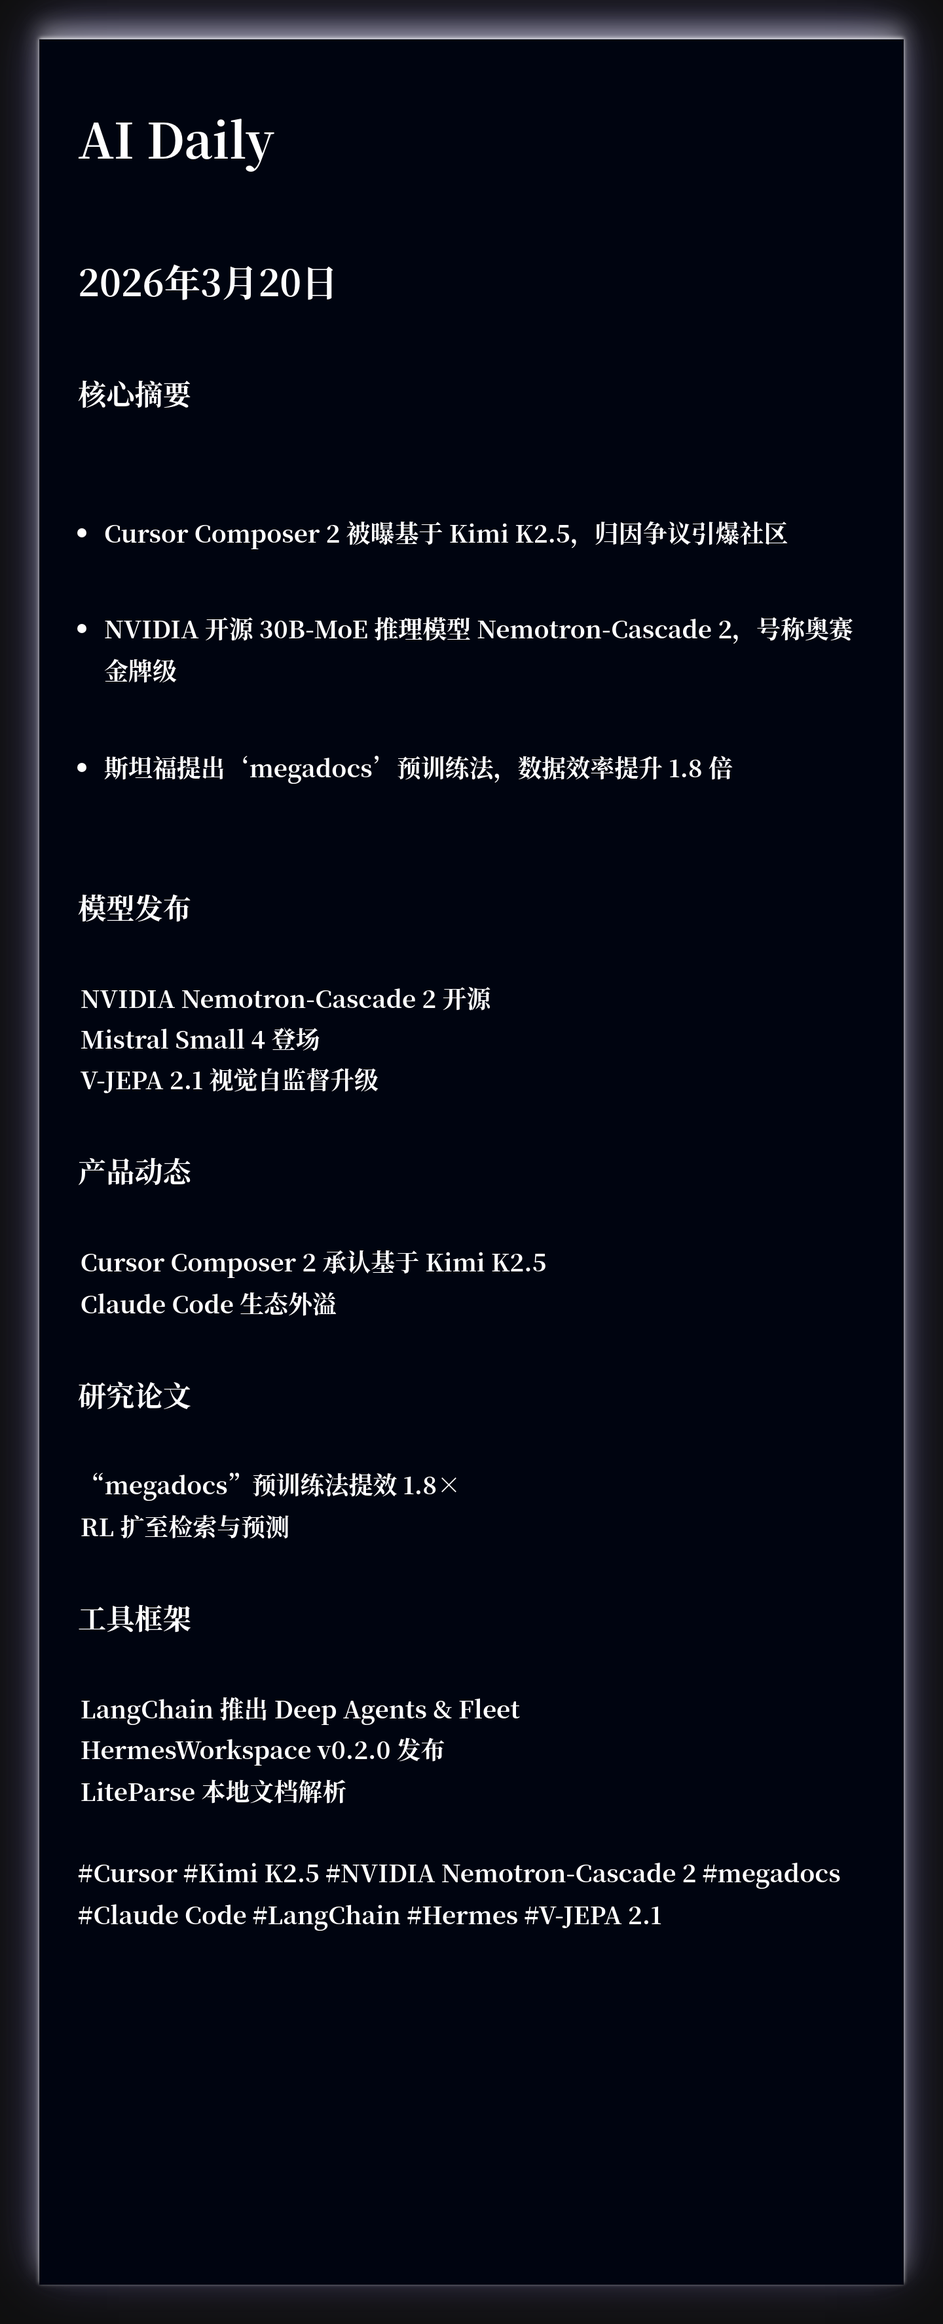
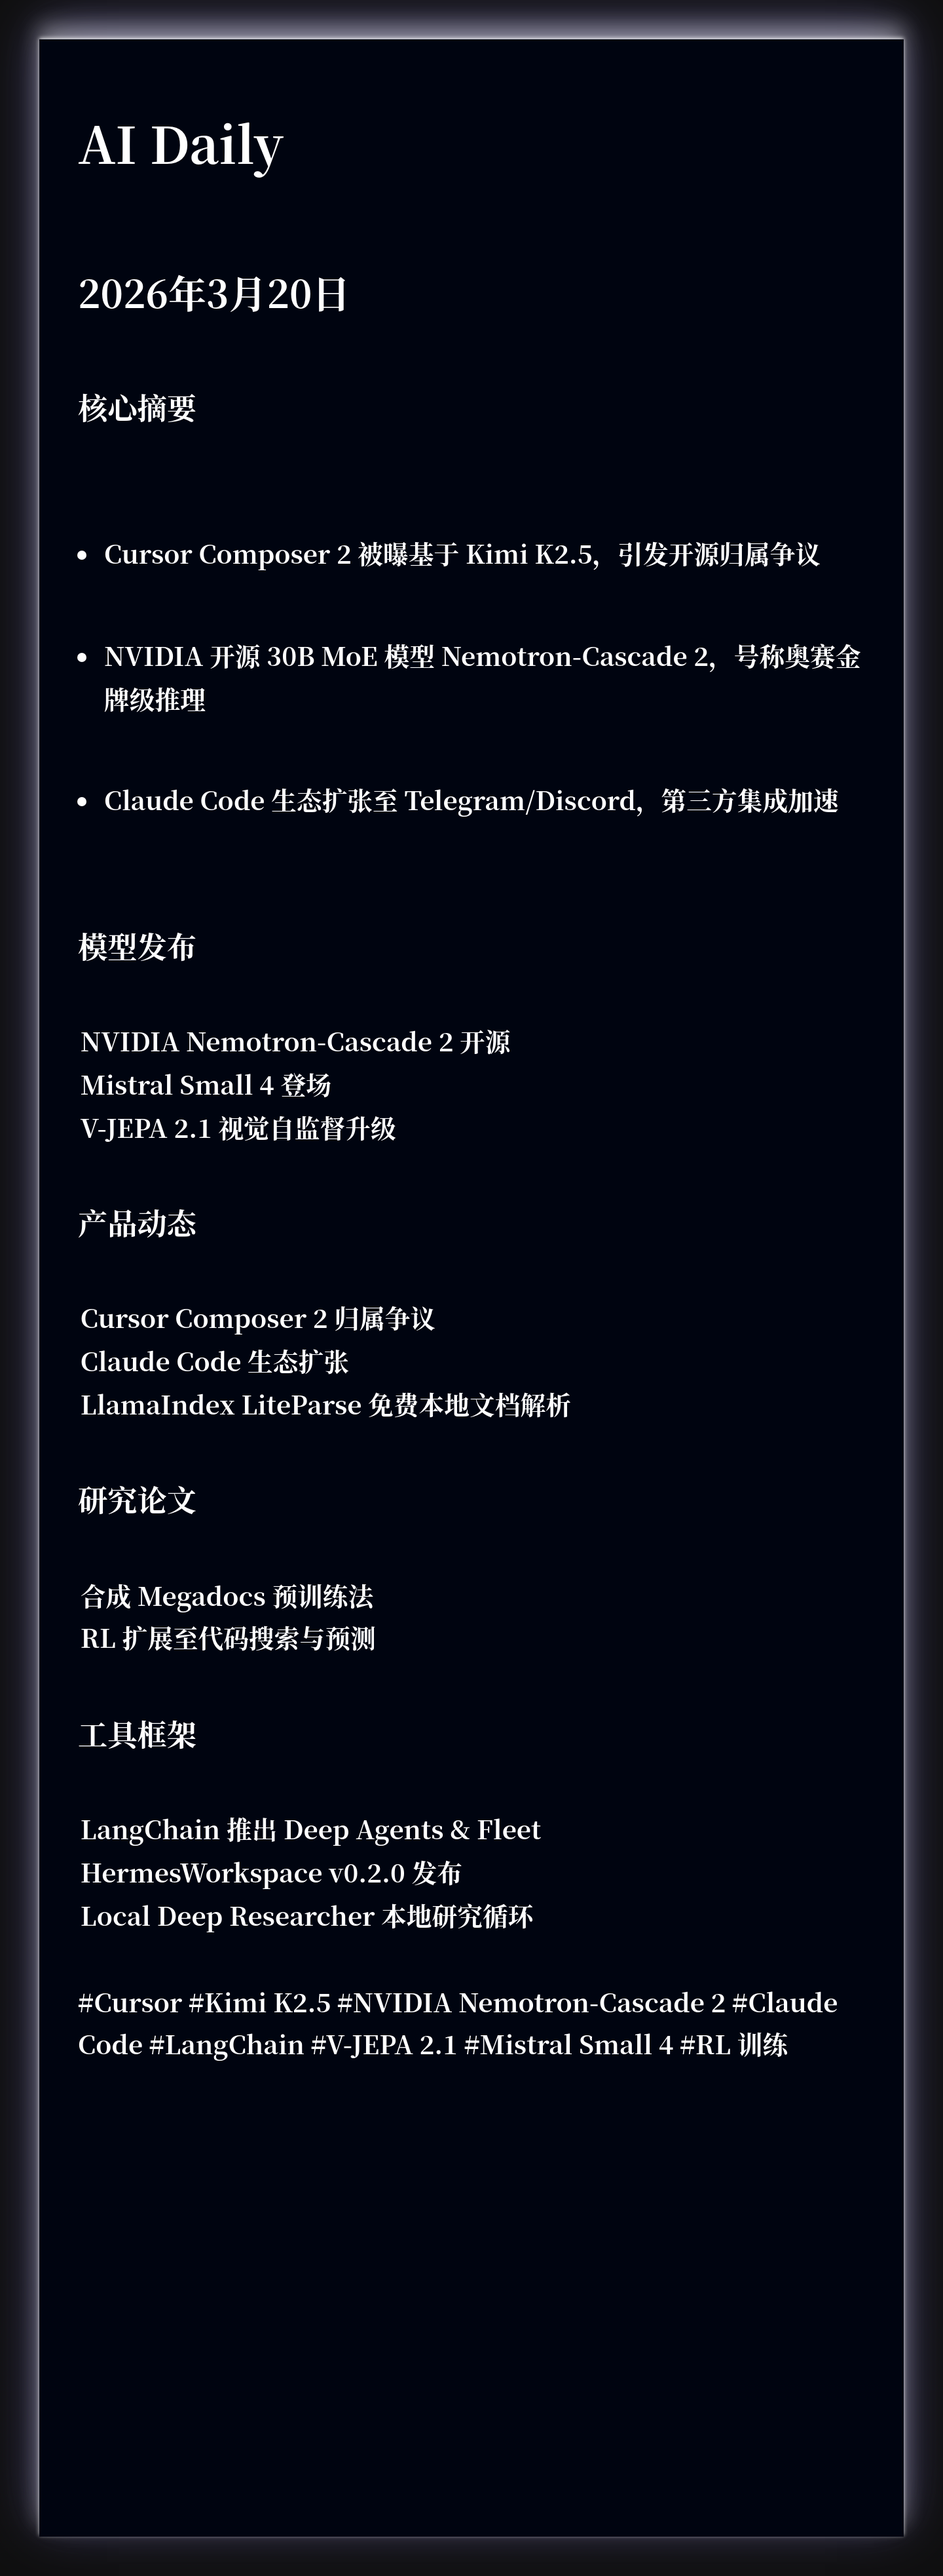
🤖 Auto update AI Daily - {{ date }} c12df99939e49153058be8885637e517e0945aa2

Changed region(s): [[0.0625, 0.1861, 0.9062, 0.8376], [0.0938, 0.031, 0.375, 0.1241], [0.0625, 0.1551, 0.2188, 0.1861]]

diff --git a/2026-03-20.html b/2026-03-20.html
@@ -5,7 +5,7 @@
     <meta name="viewport" content="width=device-width, initial-scale=1.0">
     <title>AI Daily · 2026年3月20日 星期五</title>
     <meta name="description" content="每日 AI 前沿资讯，智能分类，快速掌握核心动态">
-    <meta name="keywords" content="Cursor, Kimi K2.5, NVIDIA Nemotron-Cascade 2, megadocs, Claude Code, LangChain, Hermes, V-JEPA 2.1, Fireworks, RL, AI, 人工智能, 机器学习, 深度学习, 资讯, 日报">
+    <meta name="keywords" content="Cursor, Kimi K2.5, NVIDIA Nemotron-Cascade 2, Claude Code, LangChain, V-JEPA 2.1, Mistral Small 4, RL 训练, 文档解析, 本地代理, AI, 人工智能, 机器学习, 深度学习, 资讯, 日报">
     <link rel="stylesheet" href="css/styles.css">
 </head>
 <body data-theme="blue">
@@ -24,9 +24,9 @@
             <section class="summary-card">
                 <h2 class="section-title">📌 今日核心摘要</h2>
                 <ul class="summary-list">
-                <li class="summary-item">Cursor Composer 2 被曝基于 Kimi K2.5，归因争议引爆社区</li>
-                <li class="summary-item">NVIDIA 开源 30B-MoE 推理模型 Nemotron-Cascade 2，号称奥赛金牌级</li>
-                <li class="summary-item">斯坦福提出‘megadocs’预训练法，数据效率提升 1.8 倍</li>
+                <li class="summary-item">Cursor Composer 2 被曝基于 Kimi K2.5，引发开源归属争议</li>
+                <li class="summary-item">NVIDIA 开源 30B MoE 模型 Nemotron-Cascade 2，号称奥赛金牌级推理</li>
+                <li class="summary-item">Claude Code 生态扩张至 Telegram/Discord，第三方集成加速</li>
                 </ul>
             </section>
 
@@ -44,8 +44,8 @@
                         <h3 class="news-title">NVIDIA Nemotron-Cascade 2 开源</h3>
                         <a href="https://x.com/_weiping/status/2034877099908243746" class="item-link" target="_blank" rel="noopener">详情</a>
                     </div>
-                    <p class="news-summary">30B-MoE/3B 激活，宣称 IMO/IOI/ICPC 金牌级推理性能</p>
-                    <div class="item-tags"><span class="tag">#NVIDIA</span> <span class="tag">#Nemotron-Cascade 2</span> <span class="tag">#MoE</span> <span class="tag">#推理</span></div>
+                    <p class="news-summary">30B MoE 仅 3B 激活，宣称 IMO/IOI/ICPC 金牌级推理性能</p>
+                    <div class="item-tags"><span class="tag">#NVIDIA</span> <span class="tag">#Nemotron-Cascade 2</span> <span class="tag">#MoE</span> <span class="tag">#推理模型</span></div>
                 </article>
 
                 <article class="news-card">
@@ -53,8 +53,8 @@
                         <h3 class="news-title">Mistral Small 4 登场</h3>
                         <a href="https://x.com/ArtificialAnlys/status/2034960206736892365" class="item-link" target="_blank" rel="noopener">详情</a>
                     </div>
-                    <p class="news-summary">119B-MoE/6.5B 激活，支持推理+多模态，AA 指数 27</p>
-                    <div class="item-tags"><span class="tag">#Mistral</span> <span class="tag">#Small 4</span> <span class="tag">#Apache2.0</span></div>
+                    <p class="news-summary">119B MoE 6.5B 激活，支持混合推理与多模态，AA 指数 27</p>
+                    <div class="item-tags"><span class="tag">#Mistral</span> <span class="tag">#Small 4</span> <span class="tag">#Apache2.0</span> <span class="tag">#多模态</span></div>
                 </article>
 
                 <article class="news-card">
@@ -62,8 +62,8 @@
                         <h3 class="news-title">V-JEPA 2.1 视觉自监督升级</h3>
                         <a href="https://x.com/TheTuringPost/status/2034795966931640533" class="item-link" target="_blank" rel="noopener">详情</a>
                     </div>
-                    <p class="news-summary"> masked+visible 双监督，机器人抓取成功率再涨 20%</p>
-                    <div class="item-tags"><span class="tag">#FAIR</span> <span class="tag">#V-JEPA</span> <span class="tag">#视觉SSL</span></div>
+                    <p class="news-summary">FAIR 发布密集预测模型，机器人抓取成功率提升 20%</p>
+                    <div class="item-tags"><span class="tag">#FAIR</span> <span class="tag">#V-JEPA 2.1</span> <span class="tag">#自监督</span> <span class="tag">#机器人</span></div>
                 </article>
 
                 </div>
@@ -73,26 +73,35 @@
                 <div class="category-header">
                     <span class="category-icon">💼</span>
                     <h2 class="category-title">产品动态</h2>
-                    <span class="category-count">2</span>
+                    <span class="category-count">3</span>
                 </div>
                 <div class="news-grid">
 
                 <article class="news-card">
                     <div class="news-card-header">
-                        <h3 class="news-title">Cursor Composer 2 承认基于 Kimi K2.5</h3>
+                        <h3 class="news-title">Cursor Composer 2 归属争议</h3>
                         <a href="https://x.com/leerob/status/2035035355364081694" class="item-link" target="_blank" rel="noopener">详情</a>
                     </div>
-                    <p class="news-summary">仅 1/4 算力来自基座，其余为 CPT+RL，Fireworks 托管</p>
-                    <div class="item-tags"><span class="tag">#Cursor</span> <span class="tag">#Kimi</span> <span class="tag">#Fireworks</span> <span class="tag">#归因争议</span></div>
+                    <p class="news-summary">承认基于 Kimi K2.5 后训练，1/4 算力来自基座，Fireworks 托管</p>
+                    <div class="item-tags"><span class="tag">#Cursor</span> <span class="tag">#Kimi</span> <span class="tag">#Fireworks</span> <span class="tag">#归属争议</span></div>
                 </article>
 
                 <article class="news-card">
                     <div class="news-card-header">
-                        <h3 class="news-title">Claude Code 生态外溢</h3>
+                        <h3 class="news-title">Claude Code 生态扩张</h3>
                         <a href="https://x.com/theo/status/2034831968463200359" class="item-link" target="_blank" rel="noopener">详情</a>
                     </div>
-                    <p class="news-summary">T3 Code 集成 CLI，Telegram/Discord 渠道版悄然测试</p>
-                    <div class="item-tags"><span class="tag">#Anthropic</span> <span class="tag">#Claude Code</span> <span class="tag">#T3 Code</span></div>
+                    <p class="news-summary">集成至 T3 Code 并计划登陆 Telegram/Discord 频道</p>
+                    <div class="item-tags"><span class="tag">#Claude Code</span> <span class="tag">#Anthropic</span> <span class="tag">#T3 Code</span></div>
+                </article>
+
+                <article class="news-card">
+                    <div class="news-card-header">
+                        <h3 class="news-title">LlamaIndex LiteParse 免费本地文档解析</h3>
+                        <a href="https://x.com/jerryjliu0/status/2034790590572060848" class="item-link" target="_blank" rel="noopener">详情</a>
+                    </div>
+                    <p class="news-summary">一行命令接入 40+ 代理，文档理解能力再下沉</p>
+                    <div class="item-tags"><span class="tag">#LlamaIndex</span> <span class="tag">#LiteParse</span> <span class="tag">#文档解析</span> <span class="tag">#本地</span></div>
                 </article>
 
                 </div>
@@ -108,20 +117,20 @@
 
                 <article class="news-card">
                     <div class="news-card-header">
-                        <h3 class="news-title">“megadocs”预训练法提效 1.8×</h3>
+                        <h3 class="news-title">合成 Megadocs 预训练法</h3>
                         <a href="https://x.com/konwookim/status/2035029597491011984" class="item-link" target="_blank" rel="noopener">详情</a>
                     </div>
-                    <p class="news-summary">斯坦福团队用合成长文档预训练，小域数据抗过拟合</p>
-                    <div class="item-tags"><span class="tag">#Stanford</span> <span class="tag">#预训练</span> <span class="tag">#数据效率</span></div>
+                    <p class="news-summary">斯坦福团队用合成长文档预训练，数据效率提升 1.8 倍</p>
+                    <div class="item-tags"><span class="tag">#Stanford</span> <span class="tag">#预训练</span> <span class="tag">#合成数据</span> <span class="tag">#数据效率</span></div>
                 </article>
 
                 <article class="news-card">
                     <div class="news-card-header">
-                        <h3 class="news-title">RL 扩至检索与预测</h3>
+                        <h3 class="news-title">RL 扩展至代码搜索与预测</h3>
                         <a href="https://x.com/gneubig/status/2035037624105410926" class="item-link" target="_blank" rel="noopener">详情</a>
                     </div>
-                    <p class="news-summary">CMU/Meta 用纯 bash 做代码搜索 RL，Tinker 用 RL 超前线模型预测事件</p>
-                    <div class="item-tags"><span class="tag">#RL</span> <span class="tag">#代码搜索</span> <span class="tag">#超预测</span></div>
+                    <p class="news-summary">CMU/Meta 用纯 bash 环境 RL 训练代码检索；Tinker 用 RL 打造超预测模型</p>
+                    <div class="item-tags"><span class="tag">#RL</span> <span class="tag">#代码搜索</span> <span class="tag">#超预测</span> <span class="tag">#CMU</span></div>
                 </article>
 
                 </div>
@@ -140,8 +149,8 @@
                         <h3 class="news-title">LangChain 推出 Deep Agents & Fleet</h3>
                         <a href="https://x.com/hwchase17/status/2035035096806510872" class="item-link" target="_blank" rel="noopener">详情</a>
                     </div>
-                    <p class="news-summary">开源 Claude Code 替代+多 agent 工作流，配套可靠性课程</p>
-                    <div class="item-tags"><span class="tag">#LangChain</span> <span class="tag">#Deep Agents</span> <span class="tag">#Fleet</span></div>
+                    <p class="news-summary">开源 Claude Code 替代与多代理工作流平台同步上线</p>
+                    <div class="item-tags"><span class="tag">#LangChain</span> <span class="tag">#Deep Agents</span> <span class="tag">#Fleet</span> <span class="tag">#代理框架</span></div>
                 </article>
 
                 <article class="news-card">
@@ -149,17 +158,17 @@
                         <h3 class="news-title">HermesWorkspace v0.2.0 发布</h3>
                         <a href="https://x.com/outsource_/status/2034788187944431914" class="item-link" target="_blank" rel="noopener">详情</a>
                     </div>
-                    <p class="news-summary">一键启动、并行搜索、工作流录制回放，集成 Camel Guard 0.4</p>
-                    <div class="item-tags"><span class="tag">#Hermes</span> <span class="tag">#本地 agent</span> <span class="tag">#Camel Guard</span></div>
+                    <p class="news-summary">一键启动、并行搜索、工作流录制回放，强化提示注入防御</p>
+                    <div class="item-tags"><span class="tag">#HermesWorkspace</span> <span class="tag">#本地代理</span> <span class="tag">#工作流</span></div>
                 </article>
 
                 <article class="news-card">
                     <div class="news-card-header">
-                        <h3 class="news-title">LiteParse 本地文档解析</h3>
-                        <a href="https://x.com/jerryjliu0/status/2034790590572060848" class="item-link" target="_blank" rel="noopener">详情</a>
+                        <h3 class="news-title">Local Deep Researcher 本地研究循环</h3>
+                        <a href="https://x.com/ihtesham2005/status/2035009684386771306" class="item-link" target="_blank" rel="noopener">详情</a>
                     </div>
-                    <p class="news-summary">LlamaIndex 免费轻量解析器，一行命令接入 40+ agent</p>
-                    <div class="item-tags"><span class="tag">#LlamaIndex</span> <span class="tag">#LiteParse</span> <span class="tag">#文档解析</span></div>
+                    <p class="news-summary">MIT 授权项目，用 Ollama 模型离线完成搜索-写作-引用闭环</p>
+                    <div class="item-tags"><span class="tag">#本地研究</span> <span class="tag">#Ollama</span> <span class="tag">#MIT</span> <span class="tag">#离线</span></div>
                 </article>
 
                 </div>
@@ -167,7 +176,7 @@
 
 
         <footer class="keywords-footer">
-            <p>#关键词: Cursor | Kimi K2.5 | NVIDIA Nemotron-Cascade 2 | megadocs | Claude Code | LangChain | Hermes | V-JEPA 2.1 | Fireworks | RL</p>
+            <p>#关键词: Cursor | Kimi K2.5 | NVIDIA Nemotron-Cascade 2 | Claude Code | LangChain | V-JEPA 2.1 | Mistral Small 4 | RL 训练 | 文档解析 | 本地代理</p>
         </footer>
 
         </main>

diff --git a/xiaohongshu/xhs-2026-03-20.html b/xiaohongshu/xhs-2026-03-20.html
@@ -322,14 +322,14 @@
 
                     <!-- 亮点 -->
                     <div class="highlights">
-                        <span class="highlight-item">Cursor</span><span class="highlight-item">NVIDIA</span><span class="highlight-item">斯坦福提出‘</span>
+                        <span class="highlight-item">Cursor</span><span class="highlight-item">NVIDIA</span><span class="highlight-item">Claude</span>
                     </div>
                 </div>
 
                 <!-- 底部区域 -->
                 <div class="bottom-section">
                     <div class="keywords">
-                        <span class="keyword-tag">#Cursor</span><span class="keyword-tag">#Kimi K2.5</span><span class="keyword-tag">#NVIDIA Nemotron-Cascade 2</span><span class="keyword-tag">#megadocs</span><span class="keyword-tag">#Claude Code</span>
+                        <span class="keyword-tag">#Cursor</span><span class="keyword-tag">#Kimi K2.5</span><span class="keyword-tag">#NVIDIA Nemotron-Cascade 2</span><span class="keyword-tag">#Claude Code</span><span class="keyword-tag">#LangChain</span>
                     </div>
                     <div class="account-info">
                         <div class="account-name">极客杰尼</div>

diff --git a/index.html b/index.html
@@ -29,7 +29,7 @@
                         <span class="entry-date">2026年3月20日 星期五</span>
                         <span class="entry-arrow">→</span>
                     </div>
-                    <p class="entry-summary">Cursor Composer 2 被曝基于 Kimi K2.5，归因争议引爆社区</p>
+                    <p class="entry-summary">Cursor Composer 2 被曝基于 Kimi K2.5，引发开源归属争议</p>
                 </a>
             </article>
 
